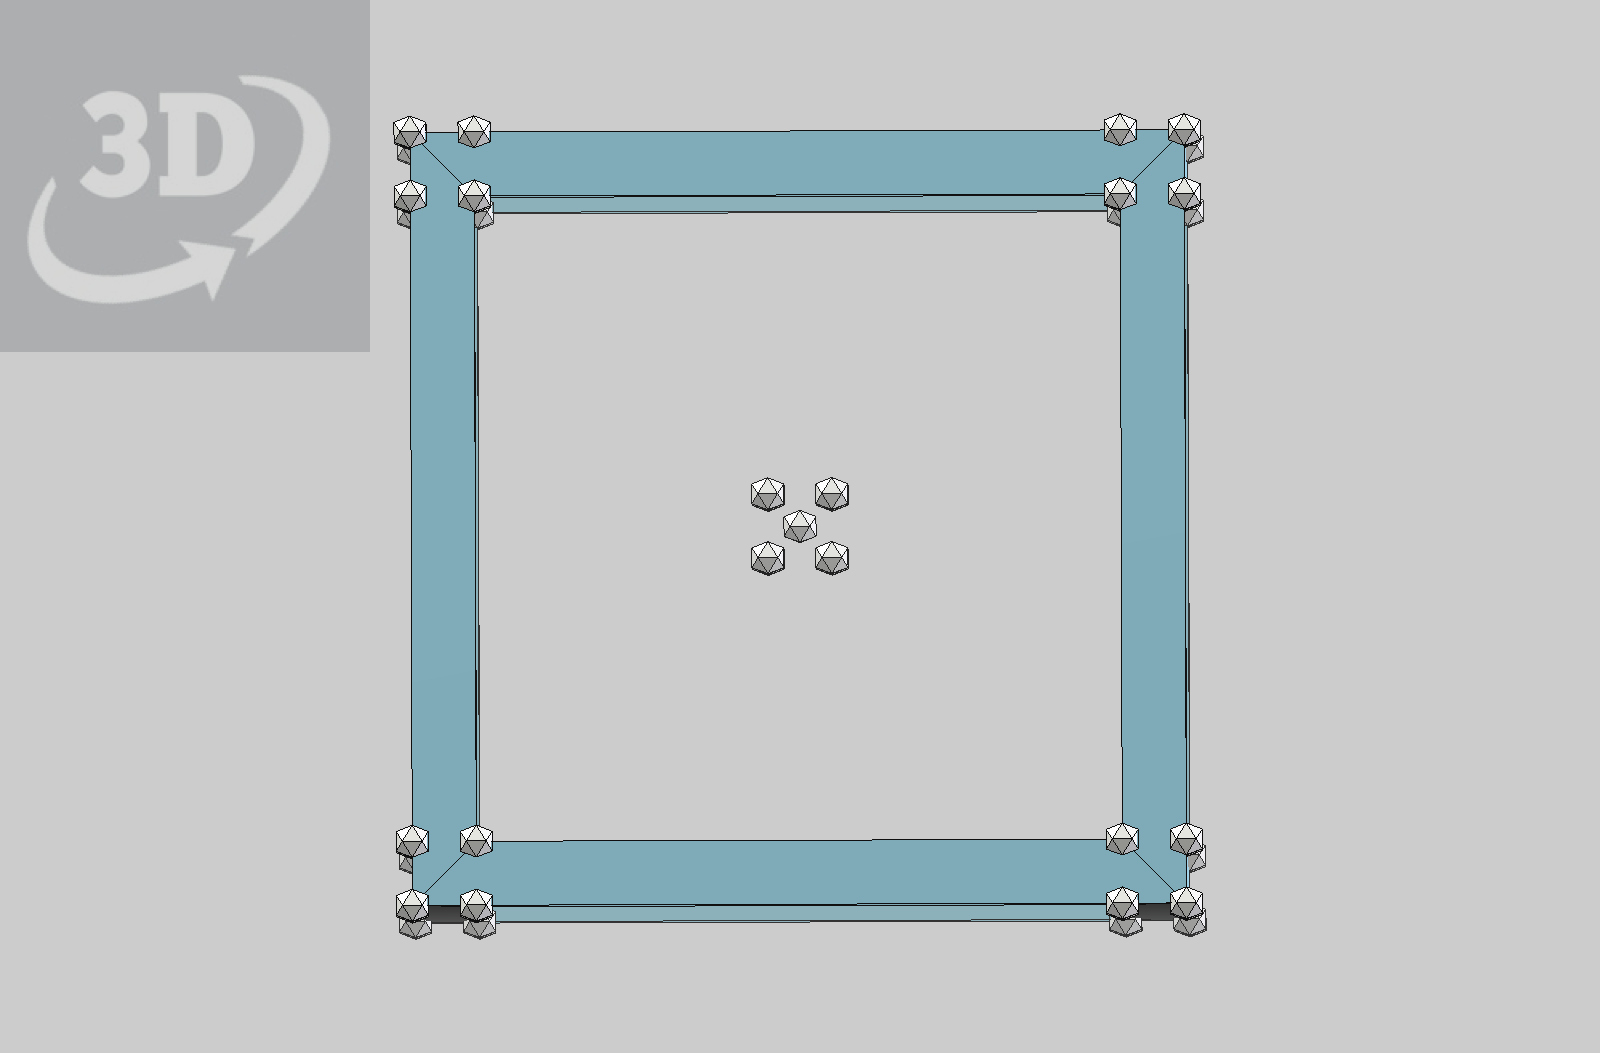
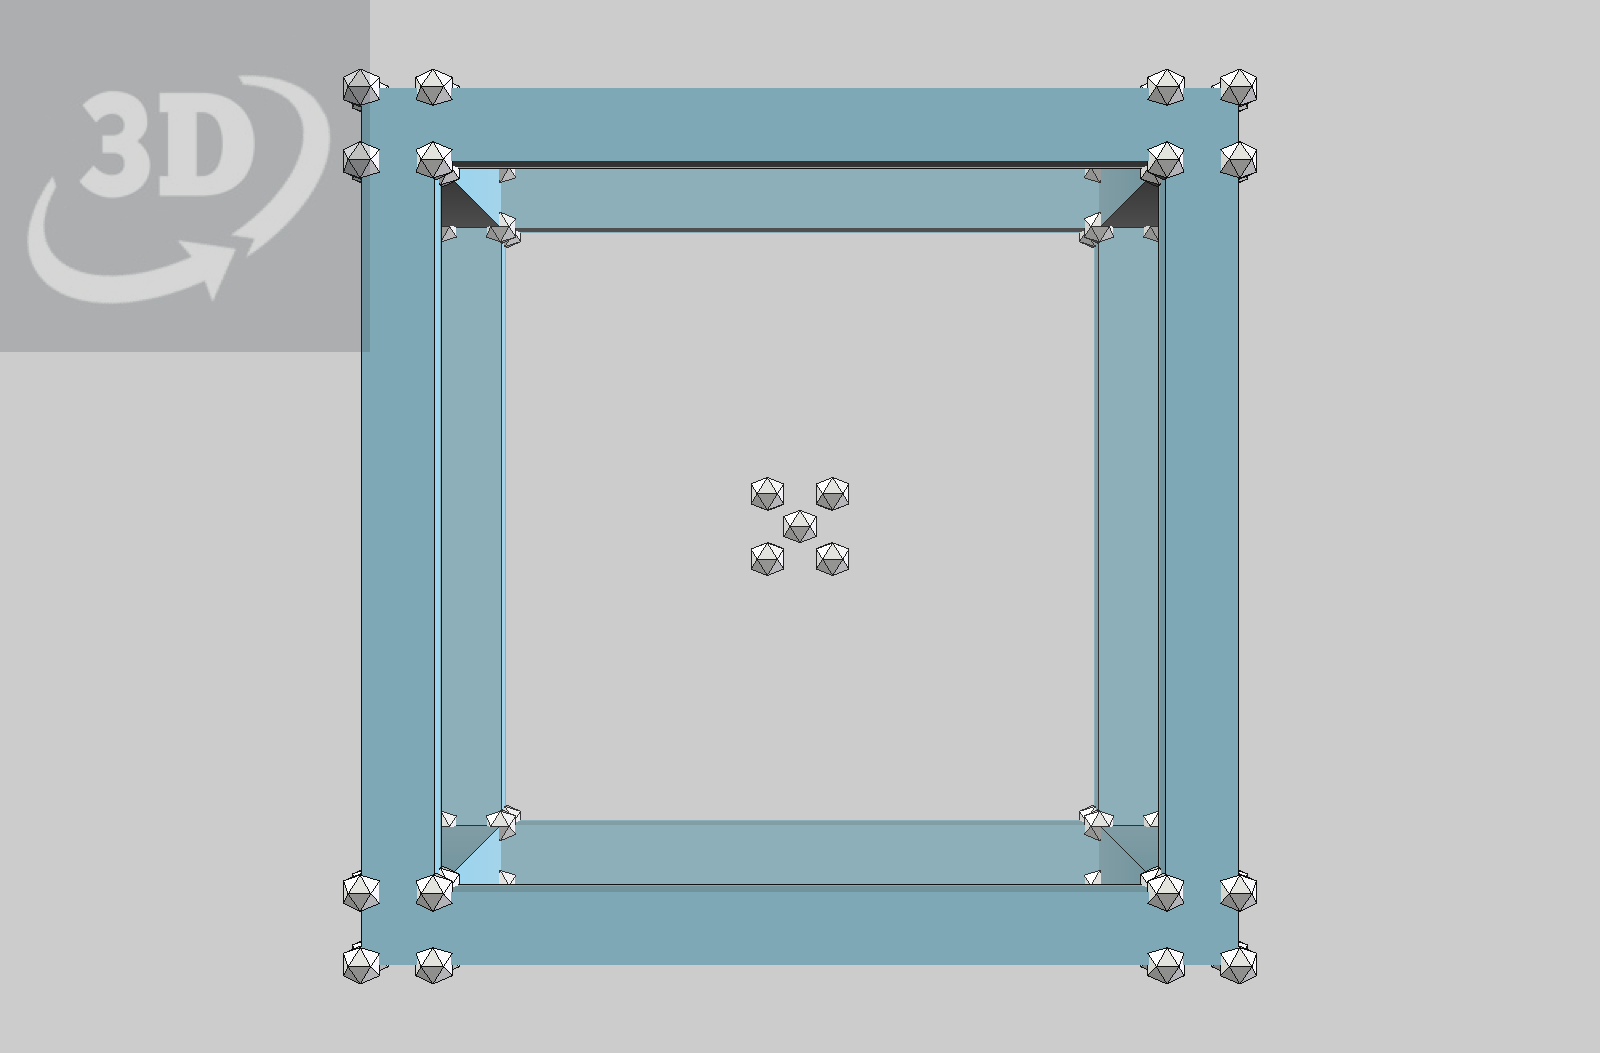
Tubular Zonohedra Constructions 2

Changed region(s): [[0.2188, 0.0608, 0.7812, 0.9421], [0.4688, 0.5166, 0.5312, 0.547], [0.5, 0.4558, 0.5312, 0.4862]]

diff --git a/2025/01/15/14-23-01-Tubular-Zonohedra-Constructions-2/index.md b/2025/01/15/14-23-01-Tubular-Zonohedra-Constructions-2/index.md
@@ -1,64 +1,17 @@
 ---
-title: Tubular Zonohedra Constructions 
+title: Tubular Zonohedra Constructions 2
 share-description: A 3D design created in vZome.  Use your mouse or touch to interact.
 image: https://John-Kostick.github.io/vzome-sharing/2025/01/15/14-23-01-Tubular-Zonohedra-Constructions-2/Tubular-Zonohedra-Constructions-2.png
-published: true
-layout: vzome
-description:
-  This is a series of models showing a method of contructionn of polyhedra.
-
+layout: design
 ---
 
-{% endcomment %}
-This is a series of models showing a method of construction of polyhedra. In this first part, the polyhedra are rhombic zonohedra. As shown in Scenes, these are Cube, Rhombic Dodecahedron, Rhombic Triacontahedron, and Enneacontahedron.  Each are constructed in much the same way; Starting with a scaled down set of the vertices of the polyhedron, and copying this set to each vertex of a framewok of polyhedron as a "hub." Then hollow struts are built around edge lines. These struts are composed of planes which are extensions of faces of the hubs.  In the case of the Cube, this is easy to see. The planes of the mini-cubes at the corners extend to form 
-tubular struts with square cross-section with the original edges as heartlines.  
-
-The Rhombic Dodeca (RD) is constructed in a similar way, with vertices of a scaled down "mini-RD" copied to each vertex of an RD frame, then planes are extended to make tubular struts with regular hexagonal cross-section surrounding heartlines of the RD frame. In this case, though, the process is a little more involved than with the Cube, owing to the fact that the planes as defined by the "hubs" intersect beyond the vertices of the "hubs."  
-
-It is much the same with the Triacontahedron, mini-triacon "hubs" are copied to the vertices of the RT frame, and tubular struts with regular decagonal cross-section are composed around heartlines.  As with the RD, points must be defined where planes intersect beyond the vertices of the "hubs."
-
-The tubular Enneacontahedron is formed the same way, but is a lot more involved, as there are many mpre intersections of the planes of what are tubular struts with irregular nonagonal cross-section.  
-
-In general, models constructed by this method can be designed to be 3D printable, in parts or as whole objects.
-They can also be used to good effect in defining parts to be fabricated, such as wood pieces to have mitre cuts made for joinery.  
-
+  
+  
   <vzome-viewer style="width: 100%; height: 60dvh" show-scenes='named'
-        src="https://John-Kostick.github.io/vzome-sharing/2025/01/15/each verte/Tubular-Zonohedra-Constructions-2.vZome" >
+        src="https://John-Kostick.github.io/vzome-sharing/2025/01/15/14-23-01-Tubular-Zonohedra-Constructions-2/Tubular-Zonohedra-Constructions-2.vZome" >
     <img  style="width: 100%"
         src="https://John-Kostick.github.io/vzome-sharing/2025/01/15/14-23-01-Tubular-Zonohedra-Constructions-2/Tubular-Zonohedra-Constructions-2.png" >
   </vzome-viewer>
-
-Here, the method for building RDs is used to compose tubular Diamond Lattice samples.
-
-<figure style="width: 87%; margin: 5%">
- 
- 
- <vzome-viewer style="width: 100%; height: 60dvh" show-scenes='named'
-       src="https://John-Kostick.github.io/vzome-sharing/2025/01/14/11-45-10-Tubular-RD-and-Diamond-lattice/Tubular-RD-and-Diamond-lattice.vZome" >
-   <img  style="width: 100%"
-       src="https://John-Kostick.github.io/vzome-sharing/2025/01/14/11-45-10-Tubular-RD-and-Diamond-lattice/Tubular-RD-and-Diamond-lattice.png" >
- </vzome-viewer>
-
- <figcaption style="text-align: center; font-style: italic;">
-    Tubular Diamond Lattice sample
- </figcaption>
-</figure>
-
- The same method can be applied to less familiar forms with different symmetry, such as this Polar Rhombic Icosahedron.  This is also a zonohedron with 5 directions of edges.  This is not the canonical Rhombic Icosa, which could also be built with tubular struts, but is a "Normalized" version, with 10 square faces and 10 rhombic faces.  This, like the Enneacon, has several sets of points beyond the "hubs" which must be defined.
-
- <figure style="width: 87%; margin: 5%">
- 
- 
- <vzome-viewer style="width: 100%; height: 60dvh" 
-       src="https://John-Kostick.github.io/vzome-sharing/2025/01/15/20-43-39-Macro-RI-Recovered/Macro-RI-Recovered.vZome" >
-   <img  style="width: 100%"
-       src="https://John-Kostick.github.io/vzome-sharing/2025/01/15/20-43-39-Macro-RI-Recovered/Macro-RI-Recovered.png" >
- </vzome-viewer>
-
- <figcaption style="text-align: center; font-style: italic;">
-    Tubular Rhombic Icosahedron
- </figcaption>
-</figure>
 
 
 [Source folder](<https://github.com/John-Kostick/vzome-sharing/tree/main/2025/01/15/14-23-01-Tubular-Zonohedra-Constructions-2/>)

diff --git a/_posts/2025-01-15-Tubular-Zonohedra-Constructions-2-14-23-01.md b/_posts/2025-01-15-Tubular-Zonohedra-Constructions-2-14-23-01.md
@@ -1,0 +1,29 @@
+---
+title: Tubular Zonohedra Constructions 2
+description: A 3D design created in vZome.  Use your mouse or touch to interact.
+image: https://John-Kostick.github.io/vzome-sharing/2025/01/15/14-23-01-Tubular-Zonohedra-Constructions-2/Tubular-Zonohedra-Constructions-2.png
+published: false
+layout: vzome
+---
+
+{% comment %}
+ - [***web page generated from this source***](<https://John-Kostick.github.io/vzome-sharing/2025/01/15/Tubular-Zonohedra-Constructions-2-14-23-01.html>)
+ - [data assets and more info](<https://github.com/John-Kostick/vzome-sharing/tree/main/2025/01/15/14-23-01-Tubular-Zonohedra-Constructions-2/>)
+ 
+{% endcomment %}
+
+A 3D design created in vZome.  Use your mouse or touch to interact.
+
+<figure style="width: 87%; margin: 5%">
+  
+  
+  <vzome-viewer style="width: 100%; height: 60dvh" show-scenes='named'
+        src="https://John-Kostick.github.io/vzome-sharing/2025/01/15/14-23-01-Tubular-Zonohedra-Constructions-2/Tubular-Zonohedra-Constructions-2.vZome" >
+    <img  style="width: 100%"
+        src="https://John-Kostick.github.io/vzome-sharing/2025/01/15/14-23-01-Tubular-Zonohedra-Constructions-2/Tubular-Zonohedra-Constructions-2.png" >
+  </vzome-viewer>
+
+  <figcaption style="text-align: center; font-style: italic;">
+    Tubular Zonohedra Constructions 2
+  </figcaption>
+</figure>

diff --git a/2025/01/15/14-23-01-Tubular-Zonohedra-Constructions-2/README.md b/2025/01/15/14-23-01-Tubular-Zonohedra-Constructions-2/README.md
@@ -1,4 +1,11 @@
 
+## Blog Post Generated
+
+ - [***custom blog post***](<https://John-Kostick.github.io/vzome-sharing/2025/01/15/Tubular-Zonohedra-Constructions-2-14-23-01.html>) about this design; *try it before you share it!*
+ - [source file for that blog post](<https://github.com/John-Kostick/vzome-sharing/edit/main/_posts/2025-01-15-Tubular-Zonohedra-Constructions-2-14-23-01.md>); click to customize
+ 
+
+
 ## How to Use or Share this Design
 
  - [***simple web page***](<https://John-Kostick.github.io/vzome-sharing/2025/01/15/14-23-01-Tubular-Zonohedra-Constructions-2/>) to just share this design; *try it before you share it!*
